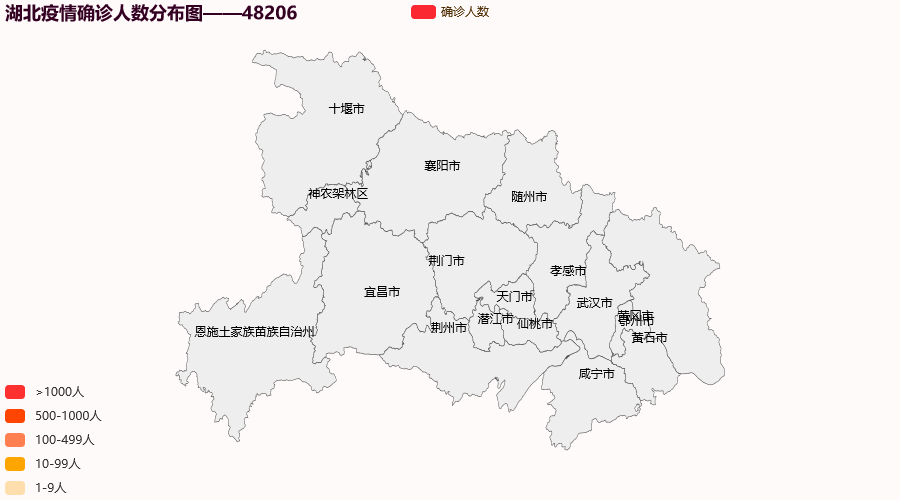
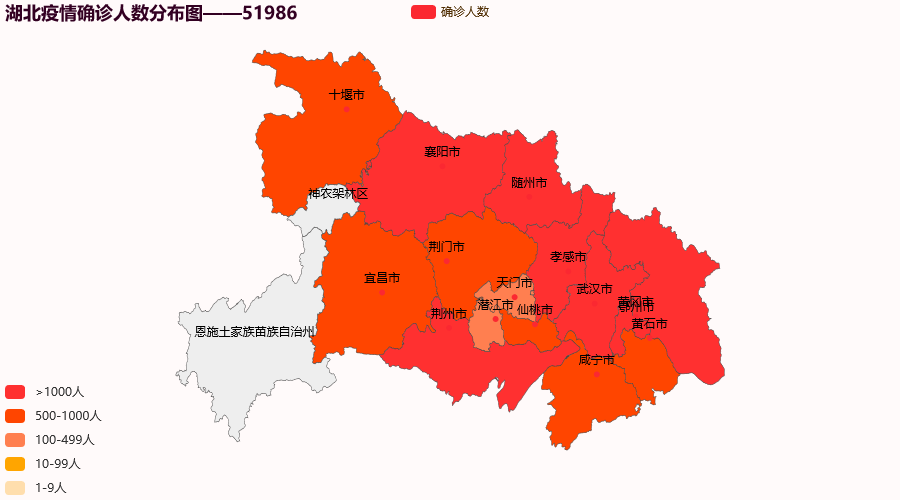
province map

Changed region(s): [[0.28, 0.09, 0.8089, 0.9], [0.2489, 0.0, 0.3111, 0.06]]

diff --git a/肺炎实时追踪.html b/肺炎实时追踪.html
@@ -42,7 +42,7 @@
         </div>
         <div class="ncp-world">
             <a name="map-ncp-world"></a>
-            <iframe src="中国疫情地图.html" frameborder="0" scrolling="no">
+            <iframe src="./pages/世界疫情地图.html" frameborder="0" scrolling="no">
             </iframe>
         </div>
 

diff --git a/中国疫情地图.py b/中国疫情地图.py
@@ -5,7 +5,7 @@ from getData import *
 
 #将数据处理成列表
 list1 = [[i, j] for i, j in zip(data['省份'], data['累计确认'])]
-# print(list1)
+print(list1)
 total_pupo = data['累计确认'].sum()
 
 #  创建国家地图
@@ -33,9 +33,10 @@ province_names = data[data['省份'].duplicated()==False]['省份']
 for province_name in province_names:
     province_ncp_data = data[data['省份']==province_name]
     city_ncp_data = [[i, j] for i, j in zip(province_ncp_data['市'], province_ncp_data['累计确认'])]
-    # print(city_ncp_data)
+    print(city_ncp_data)
 
     map_province = Map(init_opts=opts.InitOpts(bg_color="#FFFAFA", theme=ThemeType.ROMANTIC))
+    map_province.add("确诊人数", city_ncp_data, maptype=province_name)
     map_province.set_global_opts(
         title_opts=opts.TitleOpts(title=province_name+"疫情确诊人数分布图——" + str(province_ncp_data['累计确认'].sum())),
         visualmap_opts=opts.VisualMapOpts(
@@ -50,6 +51,30 @@ for province_name in province_names:
             ],
         ),
     )
-    map_province.add("确诊人数", city_ncp_data, maptype=province_name)
+
     map_province.render('./pages/'+province_name+'疫情地图.html')
+
+#  创建世界疫情地图
+world_ncp_data = [[i, j] for i, j in zip(world_data['国家'], world_data['累计确认'])]
+print(world_ncp_data)
+
+map_world = Map(init_opts=opts.InitOpts(bg_color="#FFFAFA", theme=ThemeType.ROMANTIC))
+map_world.add("确诊人数", world_ncp_data, maptype="world", is_map_symbol_show=False)
+map_world.set_series_opts(label_opts=opts.LabelOpts(is_show=False))
+map_world.set_global_opts(
+    title_opts=opts.TitleOpts(title="世界疫情确诊人数分布图——"+str(world_data['累计确认'].sum())),
+    visualmap_opts=opts.VisualMapOpts(
+        is_piecewise=True,#设置是否为分段显示
+        # 自定义的每一段的范围，以及每一段的文字，以及每一段的特别的样式。例如：
+        pieces=[
+            {"min": 1000, "label": '>1000人', "color": "#FF3030"}, # 不指定 max，表示 max 为无限大（Infinity）。
+            {"min": 500, "max": 1000, "label": '500-1000人', "color": "#FF4500"},
+            {"min": 100, "max": 499, "label": '100-499人', "color": "#FF7F50"},
+            {"min": 10, "max": 99, "label": '10-99人', "color": "#FFA500"},
+            {"min": 1, "max": 9, "label": '1-9人', "color": "#FFDEAD"},
+        ],
+     ),
+)
+
+map_world.render('./pages/世界疫情地图.html')
 

diff --git a/getData.py b/getData.py
@@ -33,7 +33,7 @@ def flatten_ncp_data(all):
             city_ncp = {
                 '日期': date,
                 '省份': province['name'],
-                '市': city['name'],
+                '市': city['name']+'市',
                 '新增确认': city['today']['confirm'],
                 '新增治愈': city['today']['heal'],
                 '新增死亡': city['today']['dead'],
@@ -44,12 +44,32 @@ def flatten_ncp_data(all):
             cities.append(city_ncp)
     return cities
 
+def get_world_data(all):
+    countries = []
+
+    date = all['lastUpdateTime']
+    world_ncp_data = all['areaTree']
+
+    for country in world_ncp_data:
+        country_ncp = {
+            '日期': date,
+            '国家': country['name'],
+            '累计确认': country['total']['confirm'],
+            '累计治愈': country['total']['heal'],
+            '累计死亡': country['total']['dead']
+        }
+        countries.append(country_ncp)
+    return countries
+
+
 all = json.loads(get_ncp_data())
 data = pd.DataFrame(flatten_ncp_data(all))
 daliy_data = pd.DataFrame(get_daily_data(all))
 daliyadd_data = pd.DataFrame(get_dailyadd_data(all))
+world_data = pd.DataFrame(get_world_data(all))
 
 # print(all)
 # print(data)
 # print(daliy_data)
 # print(daliyadd_data)
+# print(world_data)

diff --git a/readme.md b/readme.md
@@ -10,7 +10,8 @@
 ## 困难
 
 - 数据来源问题已经解决，原本是根据支付宝的肺炎实时追踪手敲的，并保存在data_2020_02_12.py中。现在使用腾讯数据接口获取疫情数据。
-- 省份确诊人数在市级上不产生颜色和数字变化
+- 省份确诊人数在市级上不产生颜色和数字变化，已解决。程序中城市的命名需要加<font color=red>**"市"**</font>才能匹配地图上的位置。
+- 世界确诊人数在国家上不产生颜色和数字变化，已解决。程序中国家的命名需要为<font color=red>**"英文"**</font>才能匹配地图上的位置。
 
 ## 使用说明
 
@@ -99,7 +100,7 @@ map_1.render('map1.html')
 
 - **全国疫情确诊人数分布图**![](./images/全国疫情确诊人数分布图.png)
 - **省份疫情确诊人数分布图**![](./images/湖北疫情确诊人数分布图.png)
-- **全球疫情确诊人数分布图**![]()
+- **全球疫情确诊人数分布图**![](./images/世界疫情确诊人数分布图.png)
 - **累计趋势分析**![]()
 - **增长趋势分析**![]()
 - **国内疫情数据汇总**![]()
